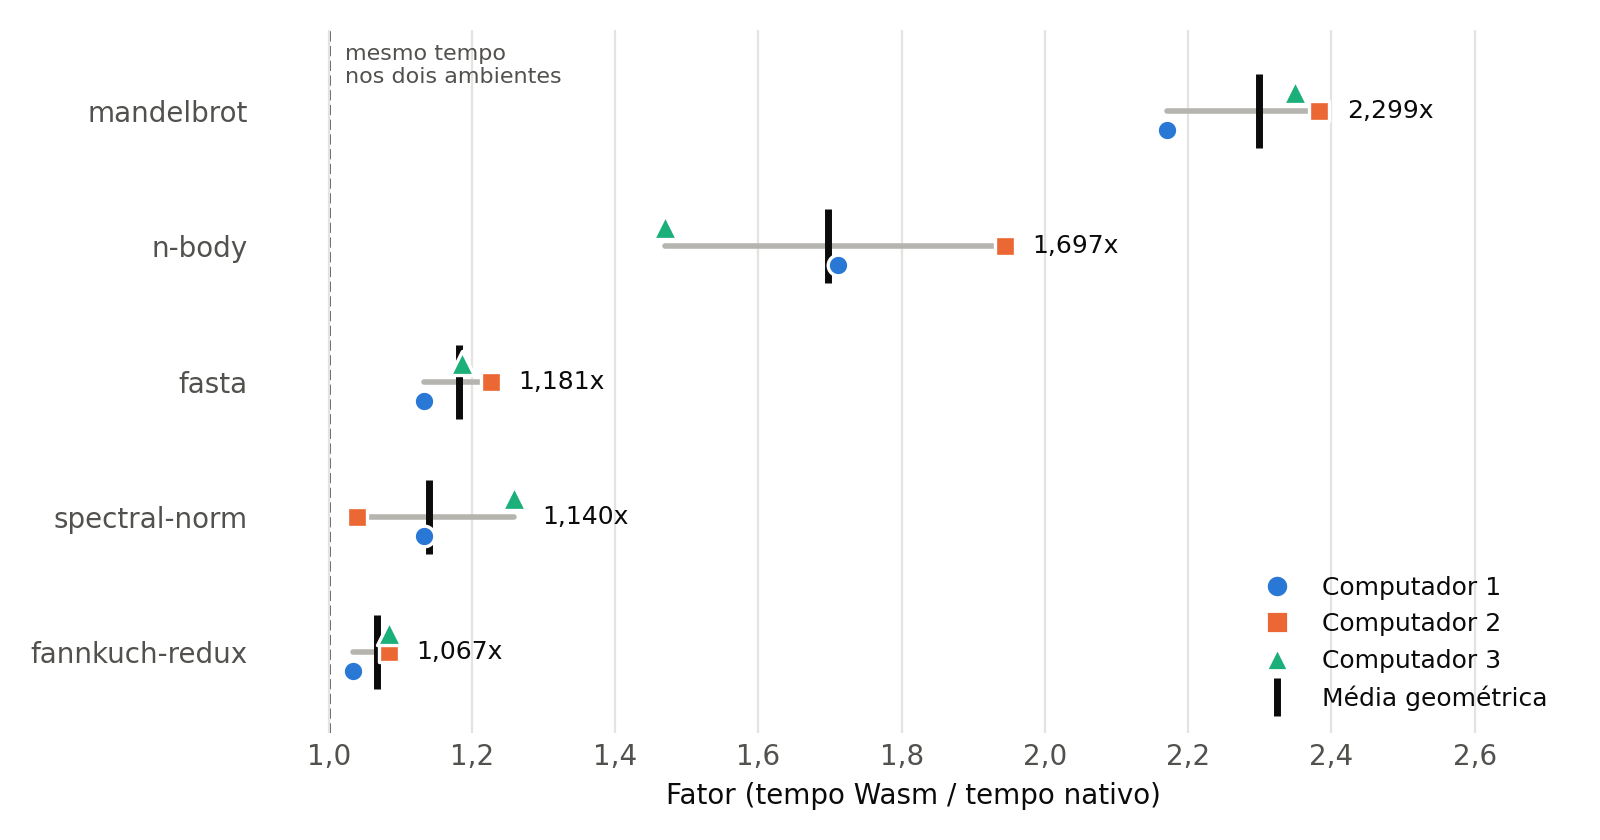
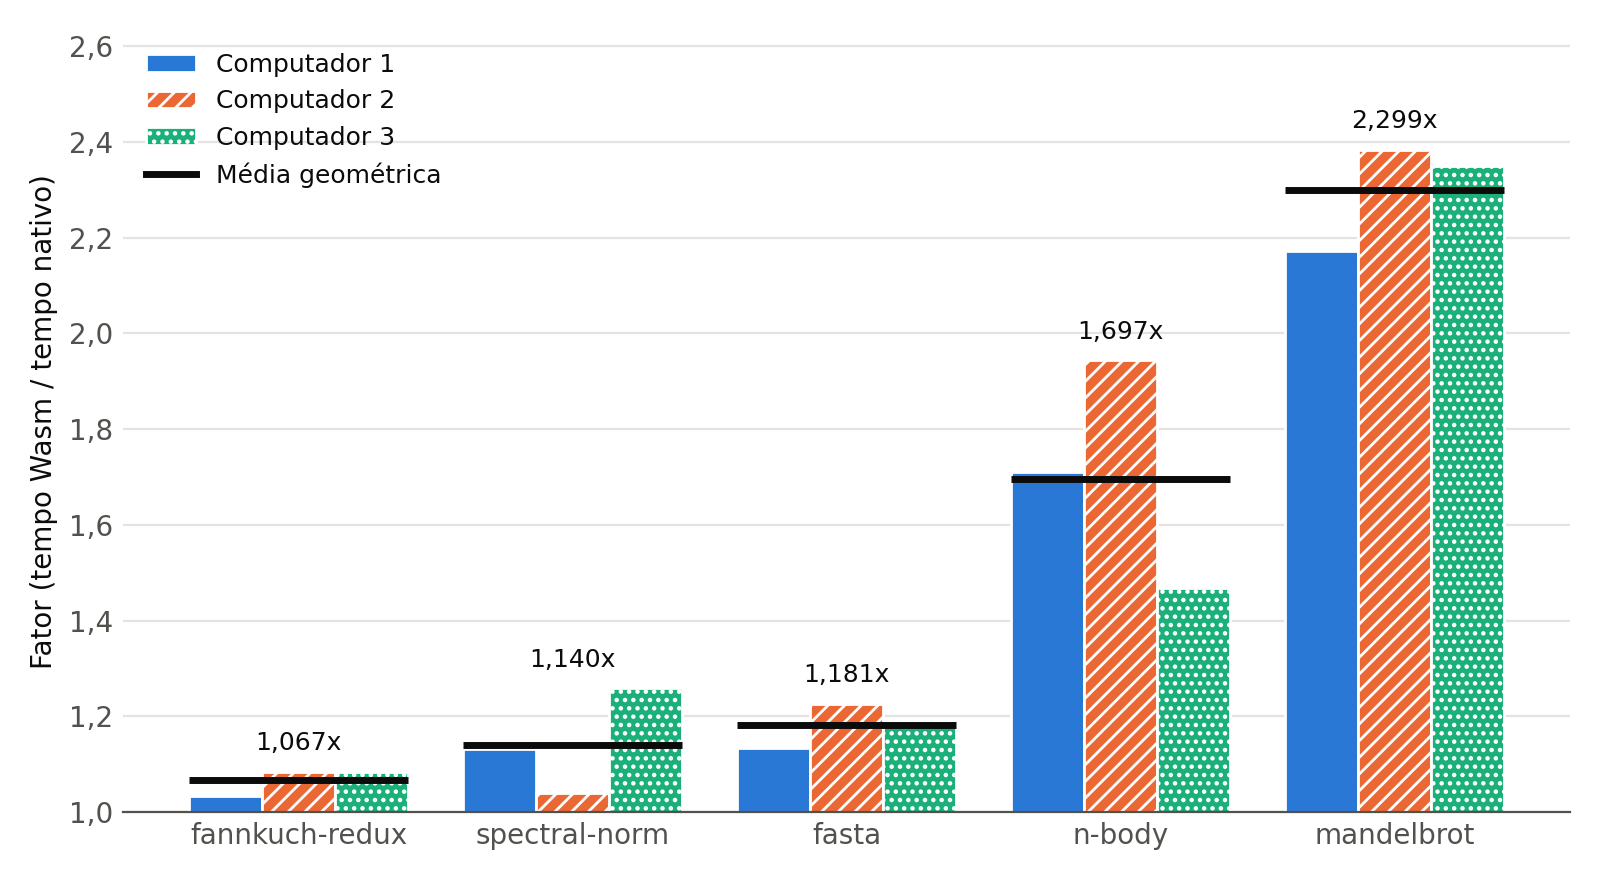
feat: draw factor chart as grouped columns per computer

diff --git a/scripts/generate_factor_chart.py b/scripts/generate_factor_chart.py
@@ -1,10 +1,11 @@
 """Gera o grafico do fator Wasm/nativo por algoritmo usado no TCC.
 
-Cada computador aparece como um ponto (fator calculado com as medianas daquele
-computador) e o traco vertical indica o fator consolidado pela media geometrica, o
-mesmo calculo de analyze_stats.py. Cada coleta e associada ao numero do
-computador no TCC pelo campo "runner", de modo que cada computador mantem a
-mesma cor e o mesmo marcador.
+Para cada algoritmo ha uma coluna vertical por computador (fator calculado com
+as medianas daquele computador), e o traco horizontal indica o fator
+consolidado pela media geometrica, o mesmo calculo de analyze_stats.py. As
+colunas partem de 1,0, que corresponde ao mesmo tempo nos dois ambientes. Cada
+coleta e associada ao numero do computador no TCC pelo campo "runner", de modo
+que cada computador mantem a mesma cor e a mesma textura.
 
 Uso: python3 scripts/generate_factor_chart.py <json_file> [<json_file> ...] [--output caminho.png]
 """
@@ -14,6 +15,7 @@ from pathlib import Path
 
 import matplotlib.pyplot as plt
 from matplotlib.lines import Line2D
+from matplotlib.patches import Patch
 from matplotlib.ticker import MultipleLocator
 
 sys.path.insert(0, str(Path(__file__).parent))
@@ -25,14 +27,11 @@ DEFAULT_OUTPUT = "charts/tcc/fator-por-algoritmo.png"
 COMPUTER_BY_RUNNER = {"Mateus": 1, "Raissa": 2, "Carlos": 3}
 # Paleta categorica validada para ate 3 series (todas as combinacoes de pares).
 COMPUTER_COLORS = {1: "#2a78d6", 2: "#eb6834", 3: "#1baf7a"}
-# Formato do marcador como codificacao secundaria (impressao em escala de cinza e daltonismo).
-COMPUTER_MARKERS = {1: "o", 2: "s", 3: "^"}
-# O triangulo ocupa menos area que os demais marcadores com o mesmo tamanho.
-MARKER_SIZES = {1: 55, 2: 50, 3: 75}
+# Textura como codificacao secundaria (impressao em escala de cinza e daltonismo).
+COMPUTER_HATCHES = {1: "", 2: "////", 3: "...."}
 TEXT_PRIMARY = "#0b0b0b"
 TEXT_SECONDARY = "#52514e"
 GRID_COLOR = "#e4e3df"
-RANGE_COLOR = "#b5b4ae"
 
 ALGORITHM_LABELS = {
     "fannkuch_redux": "fannkuch-redux",
@@ -48,52 +47,49 @@ def format_factor(value):
 
 
 def plot(computers, stats_by_computer, consolidated, output):
-    # Algoritmo com maior fator no topo.
+    # Algoritmos em ordem crescente de fator, da esquerda para a direita.
     order = sorted(range(len(consolidated)), key=lambda i: consolidated[i].slowdown_factor)
     computer_count = len(stats_by_computer)
-    offsets = [(i - (computer_count - 1) / 2) * 0.14 for i in range(computer_count)]
+    bar_width = 0.8 / computer_count
+    offsets = [(i - (computer_count - 1) / 2) * bar_width for i in range(computer_count)]
 
-    fig, ax = plt.subplots(figsize=(8, 4.2))
-    for row, index in enumerate(order):
-        factors = [stats[index].slowdown_factor for stats in stats_by_computer]
-        ax.plot([min(factors), max(factors)], [row, row], color=RANGE_COLOR, linewidth=2,
-                solid_capstyle="round", zorder=1)
-        for position, (computer, factor) in enumerate(zip(computers, factors)):
-            ax.scatter(factor, row + offsets[position], s=MARKER_SIZES[computer], marker=COMPUTER_MARKERS[computer],
-                       color=COMPUTER_COLORS[computer], edgecolors="white", linewidths=1.2, zorder=3)
-        # Traco vertical atras dos pontos, para nao esconder um computador com o mesmo fator.
+    fig, ax = plt.subplots(figsize=(8, 4.4))
+    for column, index in enumerate(order):
+        for position, (computer, stats) in enumerate(zip(computers, stats_by_computer)):
+            factor = stats[index].slowdown_factor
+            ax.bar(column + offsets[position], factor - 1.0, bottom=1.0, width=bar_width,
+                   color=COMPUTER_COLORS[computer], hatch=COMPUTER_HATCHES[computer],
+                   edgecolor="white", linewidth=1, zorder=2)
         consolidated_factor = consolidated[index].slowdown_factor
-        ax.scatter(consolidated_factor, row, s=700, marker="|", color=TEXT_PRIMARY, linewidths=2.5, zorder=2)
-        ax.annotate(format_factor(consolidated_factor), (max(factors), row), xytext=(10, 0),
-                    textcoords="offset points", va="center", fontsize=9, color=TEXT_PRIMARY)
+        group_half_width = bar_width * computer_count / 2
+        ax.hlines(consolidated_factor, column - group_half_width, column + group_half_width,
+                  color=TEXT_PRIMARY, linewidth=2.5, zorder=3)
+        group_top = max(stats[index].slowdown_factor for stats in stats_by_computer)
+        ax.annotate(format_factor(consolidated_factor), (column, group_top), xytext=(0, 6),
+                    textcoords="offset points", ha="center", va="bottom", fontsize=9, color=TEXT_PRIMARY)
 
-    ax.axvline(1.0, color=TEXT_SECONDARY, linewidth=1, linestyle="--", zorder=0)
-    ax.annotate("mesmo tempo\nnos dois ambientes", (1.0, len(order) - 0.5), xytext=(6, 0),
-                textcoords="offset points", va="top", fontsize=8, color=TEXT_SECONDARY)
-
-    ax.set_yticks(range(len(order)))
-    ax.set_yticklabels([ALGORITHM_LABELS.get(consolidated[i].algorithm, consolidated[i].algorithm)
+    ax.set_xticks(range(len(order)))
+    ax.set_xticklabels([ALGORITHM_LABELS.get(consolidated[i].algorithm, consolidated[i].algorithm)
                         for i in order], color=TEXT_PRIMARY)
-    ax.set_ylim(-0.6, len(order) - 0.4)
     largest = max(stats[i].slowdown_factor for stats in stats_by_computer for i in range(len(consolidated)))
-    ax.set_xlim(0.9, largest + 0.35)
-    ax.set_xlabel("Fator (tempo Wasm / tempo nativo)", color=TEXT_PRIMARY)
-    ax.xaxis.set_major_locator(MultipleLocator(0.2))
-    ax.xaxis.set_major_formatter(plt.FuncFormatter(lambda value, _: f"{value:.1f}".replace(".", ",")))
+    ax.set_ylim(1.0, largest + 0.25)
+    ax.set_ylabel("Fator (tempo Wasm / tempo nativo)", color=TEXT_PRIMARY)
+    ax.yaxis.set_major_locator(MultipleLocator(0.2))
+    ax.yaxis.set_major_formatter(plt.FuncFormatter(lambda value, _: f"{value:.1f}".replace(".", ",")))
     ax.tick_params(colors=TEXT_SECONDARY, length=0)
-    ax.grid(axis="x", color=GRID_COLOR, linewidth=0.8)
+    ax.grid(axis="y", color=GRID_COLOR, linewidth=0.8)
     ax.set_axisbelow(True)
-    for spine in ax.spines.values():
-        spine.set_visible(False)
+    for name, spine in ax.spines.items():
+        spine.set_visible(name == "bottom")
+    ax.spines["bottom"].set_color(TEXT_SECONDARY)
+
     handles = [
-        Line2D([], [], linestyle="none", marker=COMPUTER_MARKERS[computer], markersize=8,
-               markerfacecolor=COMPUTER_COLORS[computer], markeredgecolor="white",
-               label=f"Computador {computer}")
+        Patch(facecolor=COMPUTER_COLORS[computer], hatch=COMPUTER_HATCHES[computer], edgecolor="white",
+              label=f"Computador {computer}")
         for computer in computers
     ]
-    handles.append(Line2D([], [], linestyle="none", marker="|", markersize=14, markeredgewidth=2.5,
-                          color=TEXT_PRIMARY, label="Média geométrica"))
-    ax.legend(handles=handles, loc="lower right", frameon=False, fontsize=9, labelcolor=TEXT_PRIMARY)
+    handles.append(Line2D([], [], color=TEXT_PRIMARY, linewidth=2.5, label="Média geométrica"))
+    ax.legend(handles=handles, loc="upper left", frameon=False, fontsize=9, labelcolor=TEXT_PRIMARY)
 
     fig.tight_layout()
     Path(output).parent.mkdir(parents=True, exist_ok=True)
